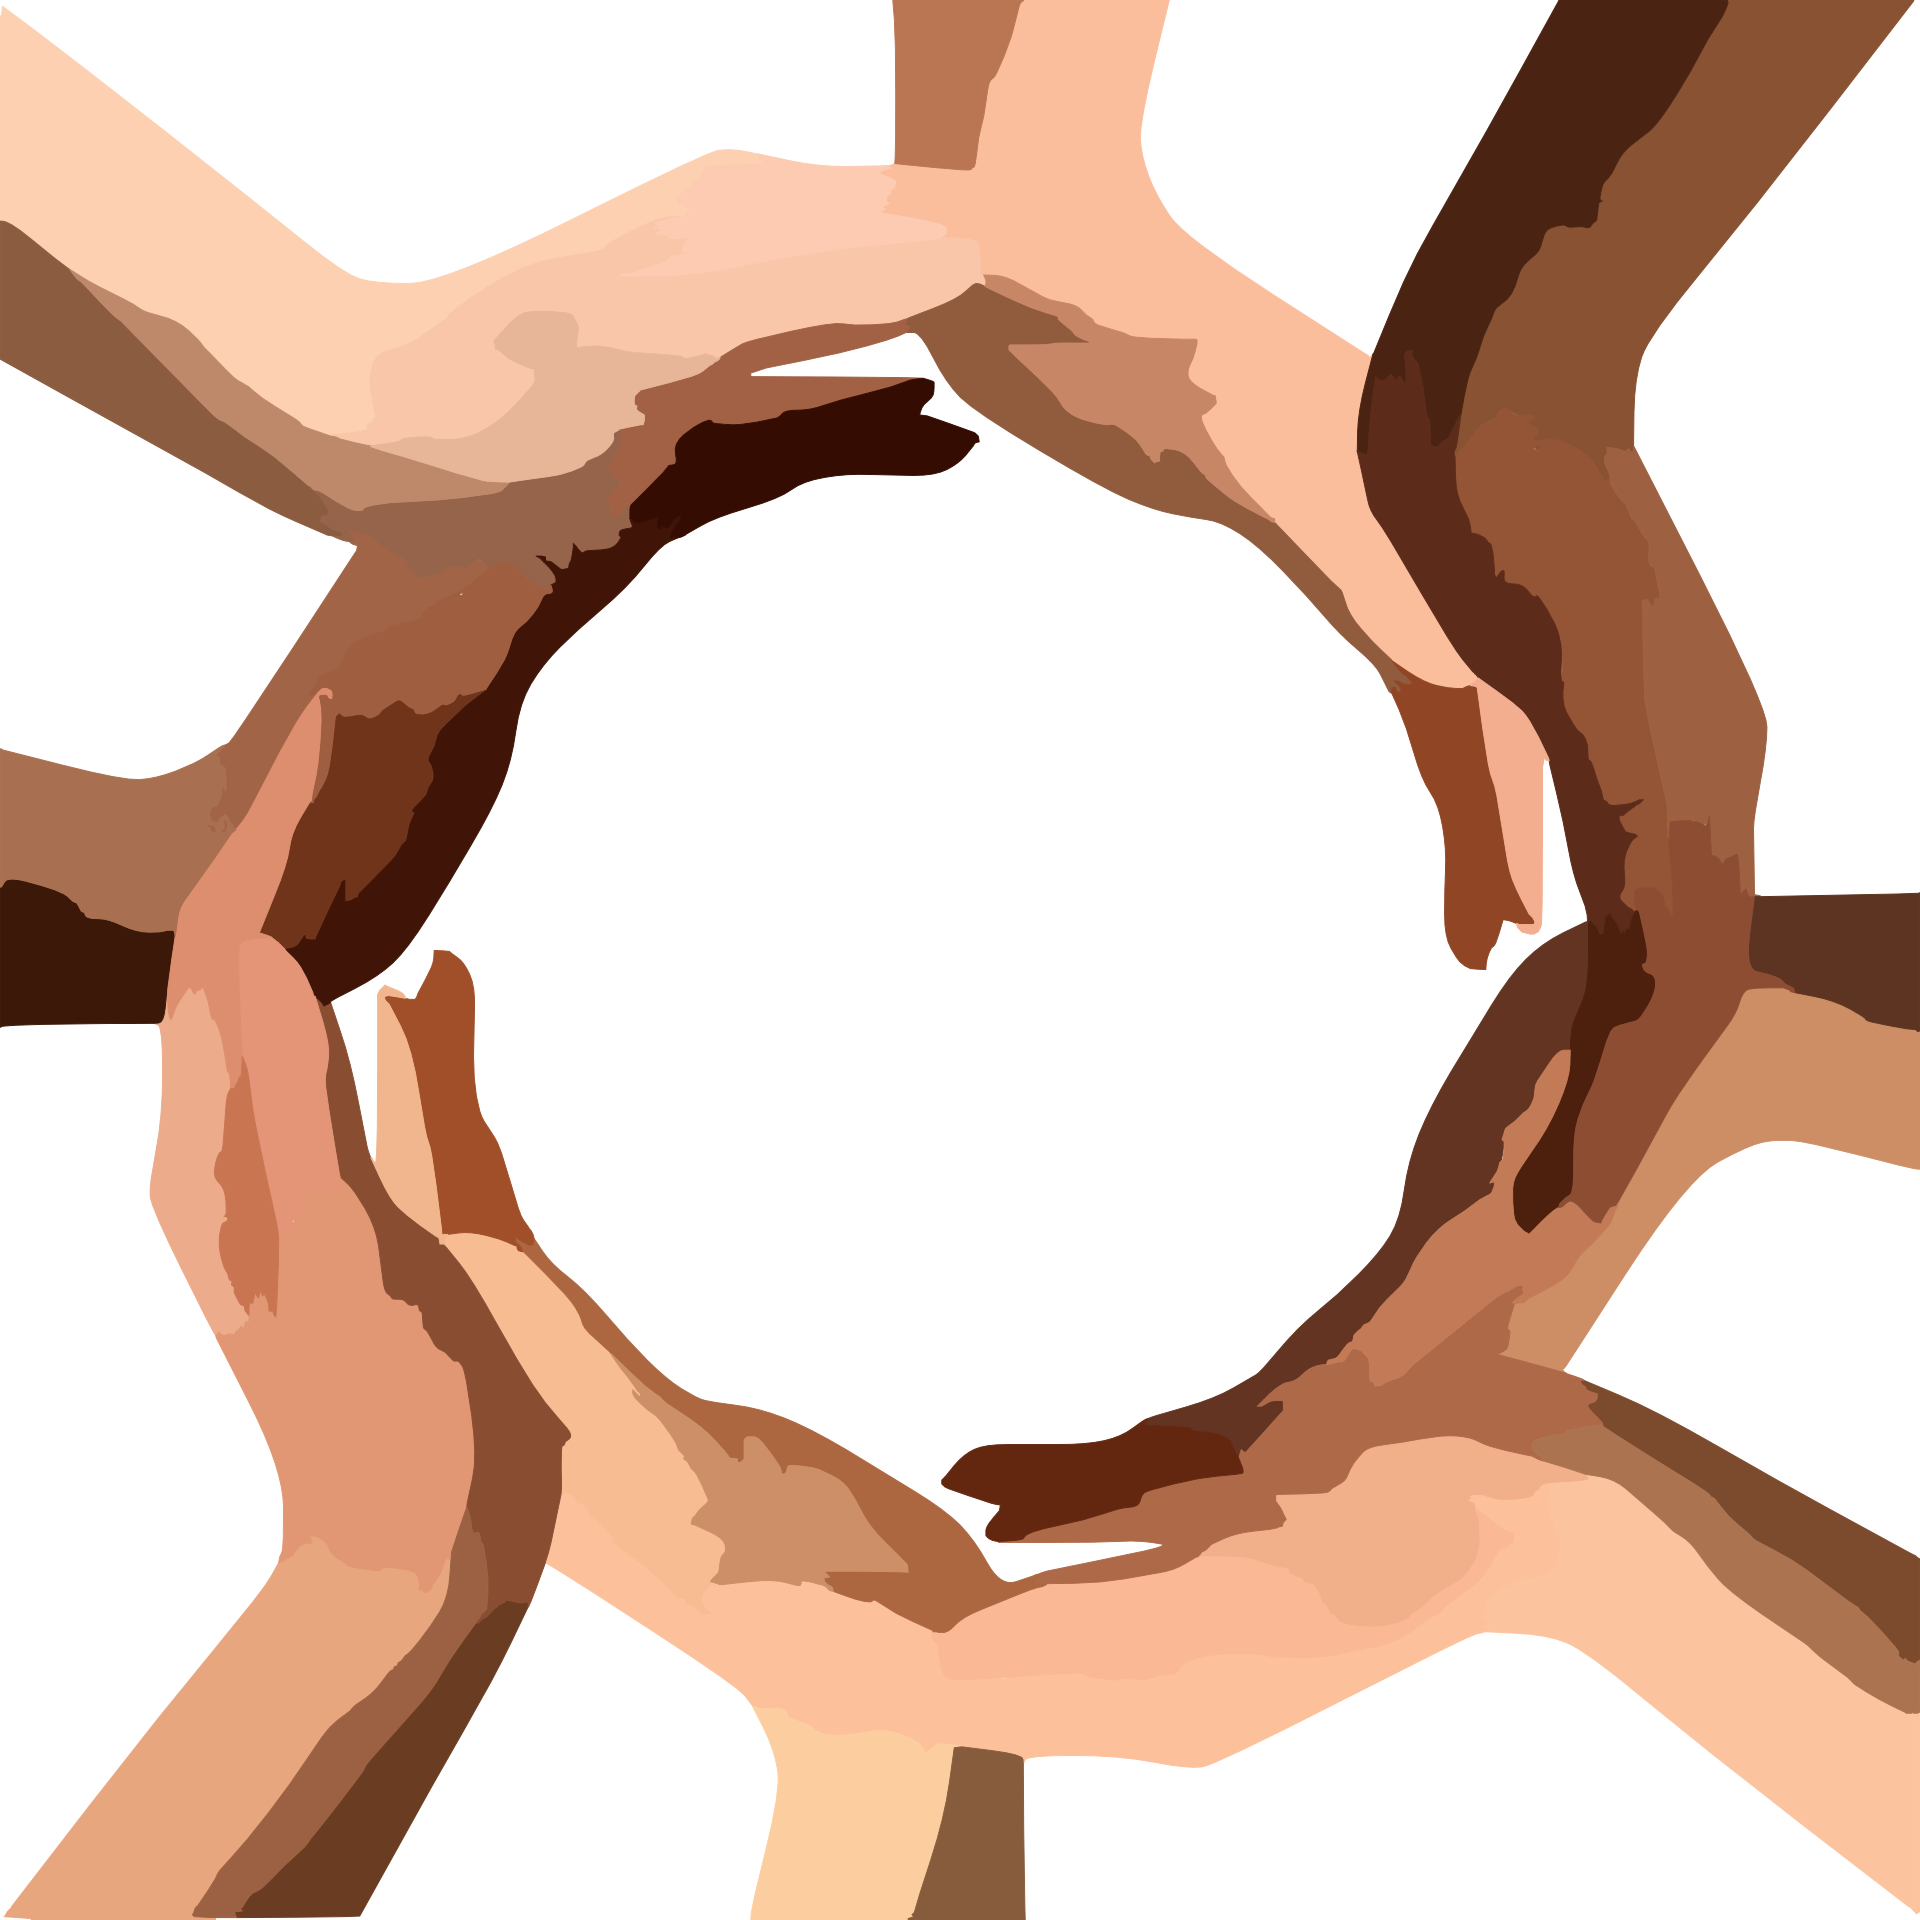
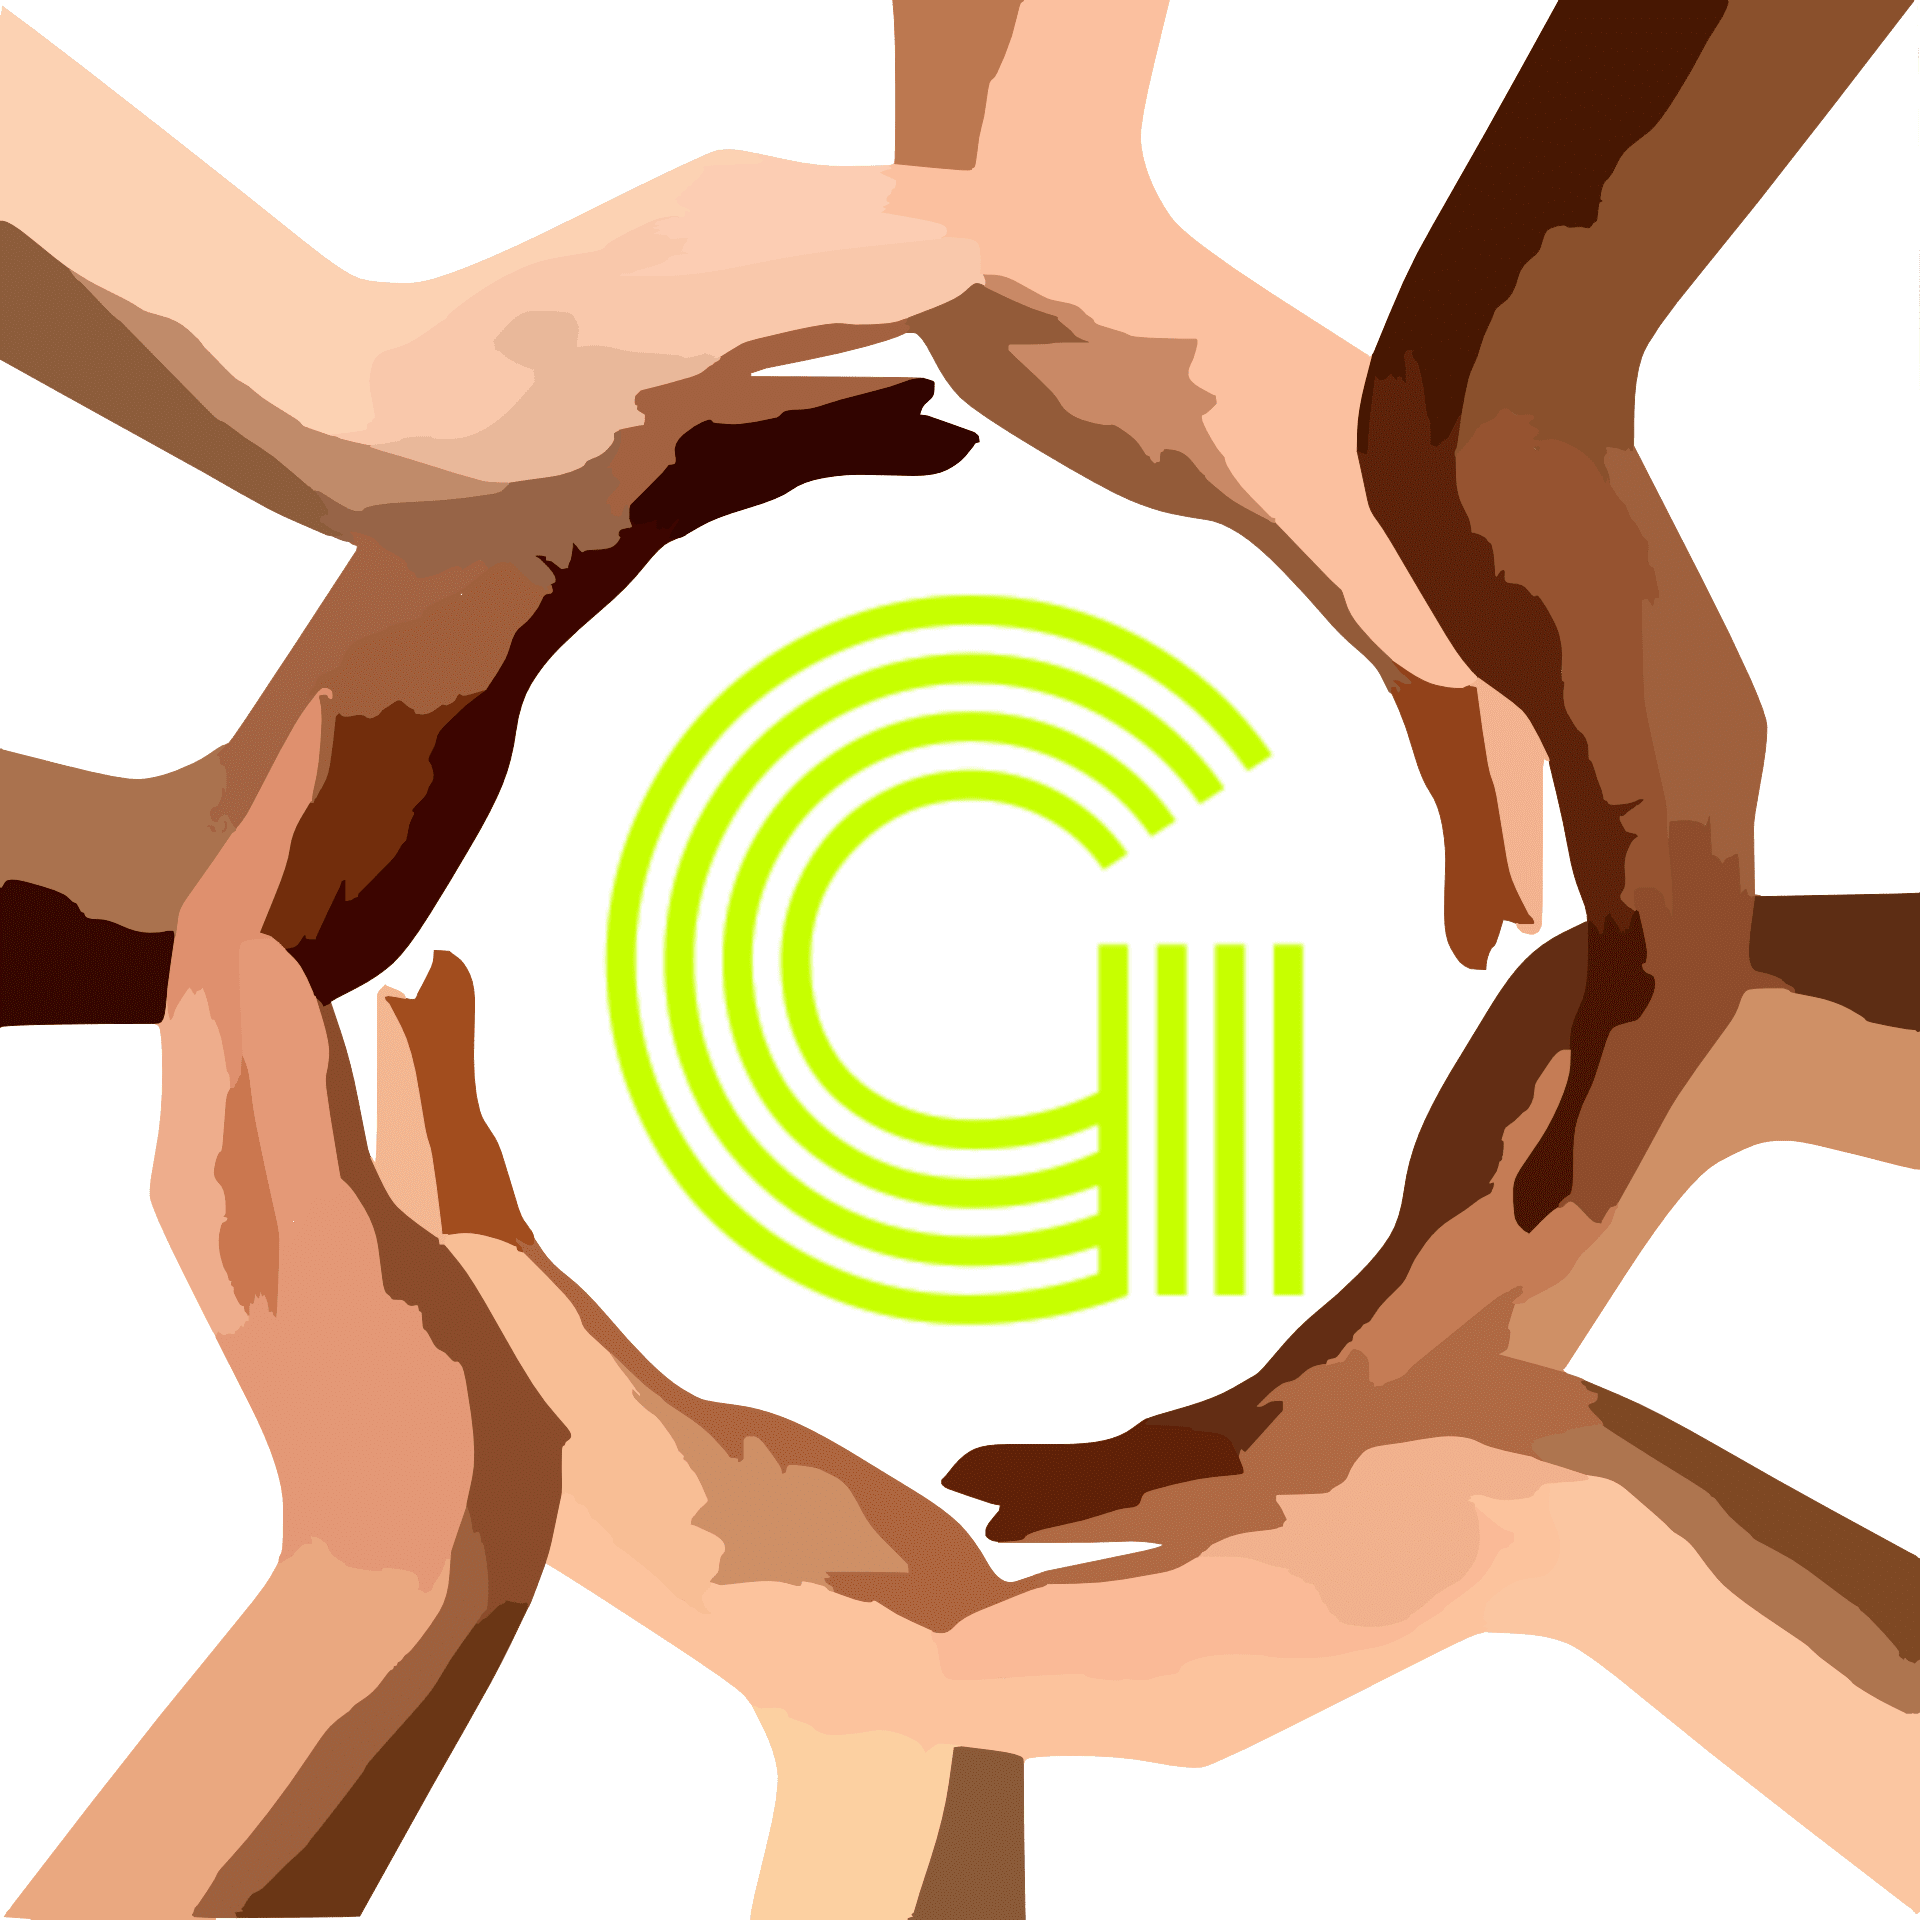
Modified Joined Group Section

diff --git a/App.js b/App.js
@@ -8,6 +8,7 @@ import { NavigationContainer, DrawerActions, Header } from '@react-navigation/na
 import { Provider as PaperProvider } from 'react-native-paper';
 import { StatusBar } from 'expo-status-bar';
 import * as Notifications from 'expo-notifications';
+import * as Permissions from 'expo-permissions';
 // import {
 //   AdMobRewarded,
 //   setTestDeviceIDAsync,
@@ -38,32 +39,53 @@ export default function App() {
 
   //   }
   // }
+  getPermissionAsync = async () => {
+    const { status } = Permissions.getAsync(Permissions.CAMERA_ROLL)
+    if (status !== 'granted') {
+try{
+      const { status } = await Permissions.askAsync(Permissions.CAMERA_ROLL);
+      if (status !== 'granted') {
+        alert('Sorry, we need camera roll permissions to make this work!');
+      }
+    }catch(e){}
+    }
+  };
 
+  getCameraPermissionAsync = async () => {
+    const { status } = Permissions.getAsync(Permissions.CAMERA)
+    if (status !== 'granted') {
+      try{
+      const { status } = await Permissions.askAsync(Permissions.CAMERA);
+      if (status !== 'granted') {
+        alert('Sorry, we need camera permissions to make this work!');
+      }
+    }catch(e){}
+  }
+  };
 
   useEffect(() => {
 
     // const time = setTimeout(() => {
     //   this._openRewarded();
     // }, 10000);
-
+   const permissions= getPermissionAsync();
+   const Camerapermissions= getCameraPermissionAsync();
     const backgroundSubscription = Notifications.addNotificationResponseReceivedListener(
-
       (response) => {
-
-
       }
     );
 
     const foregroundSubscription = Notifications.addNotificationReceivedListener(
       (notification) => {
-
       }
     );
 
     return () => {
+      permissions.remove();
+      Camerapermissions.remove();
       backgroundSubscription.remove();
       foregroundSubscription.remove();
-      clearTimeout(time)
+    //  clearTimeout(time)
     };
   }, []);
 
@@ -94,4 +116,3 @@ const styles = StyleSheet.create({
   }
 
 });
-

diff --git a/screens/Posts/CreateaNewPost.js b/screens/Posts/CreateaNewPost.js
@@ -84,15 +84,14 @@ export default class CreateaNewPost extends Component {
   getPermissionAsync = async () => {
     const { status } = Permissions.getAsync(Permissions.CAMERA_ROLL)
     if (status !== 'granted') {
+try{
       const { status } = await Permissions.askAsync(Permissions.CAMERA_ROLL);
       if (status !== 'granted') {
         alert('Sorry, we need camera roll permissions to make this work!');
       }
+    }catch(e){}
     }
   };
-
-
-
 
   onFullscreenUpdate = ({ fullscreenUpdate, status }) => {
 
@@ -219,11 +218,13 @@ export default class CreateaNewPost extends Component {
   getCameraPermissionAsync = async () => {
     const { status } = Permissions.getAsync(Permissions.CAMERA)
     if (status !== 'granted') {
+      try{
       const { status } = await Permissions.askAsync(Permissions.CAMERA);
       if (status !== 'granted') {
-        alert('Sorry, we need camera roll permissions to make this work!');
+        Alert.alert('Sorry, we need camera permissions to make this work!');
       }
-    }
+    }catch(e){}
+  }
   };
 
 

diff --git a/screens/LoginScreen.js b/screens/LoginScreen.js
@@ -18,7 +18,7 @@ import {
 import jwt_decode from "jwt-decode";
 import Email_Icon from '../Pictures/Email.png';
 import lock_Icon from '../Pictures/lock.png';
-import Splash_Icon from '../Pictures/circle-312343.png';
+import Splash_Icon from '../Pictures/circleOriginal.png';
 import UserToken from '../constants/APIPasswordCollection';
 import Loader from '../components/Loader';
 import { MaterialCommunityIcons, } from '@expo/vector-icons';
